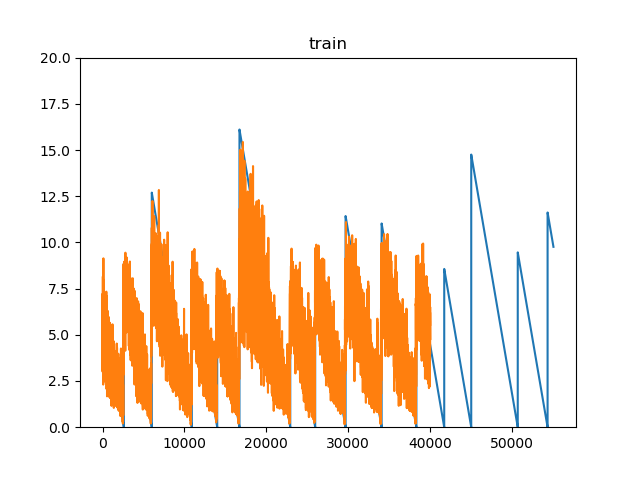
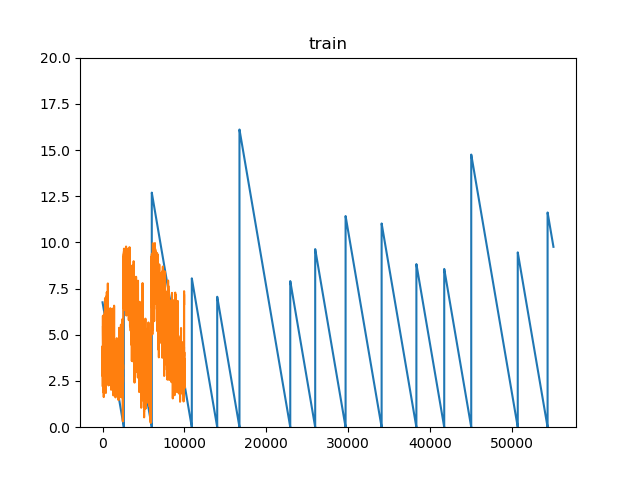
DS: fix cuda memory overflow

Changed region(s): [[0.1562, 0.3125, 0.6875, 0.875], [0.1562, 0.7812, 0.25, 0.875]]

diff --git a/src/validation/train_single_model.py b/src/validation/train_single_model.py
@@ -91,7 +91,9 @@ def main(**kwargs):
         # validate
 
         # temp custom reshape data for
-        X_train_reshaped = pd.DataFrame(np.stack([X_train[i-15:i] for i in range(15, X_train.shape[0])]).reshape(-1, 30000))
+        num_samples_to_show = 20000
+
+        X_train_reshaped = pd.DataFrame(np.stack([X_train[i-15:i] for i in range(15, X_train.shape[0])]).reshape(-1, 30000)[:num_samples_to_show])
 
 
         predict = model.predict(X_train_reshaped)
@@ -105,7 +107,7 @@ def main(**kwargs):
         plt.savefig(f'train_{fold_n}.png')
 
         for metric_name, metric in metrics.items():
-            score = metric(predict, y_train[15:])
+            score = metric(predict, y_train[15: num_samples_to_show + 15])
             scores[metric_name].append(score)
             print(f"train score: {score.mean():.4f}")
 
